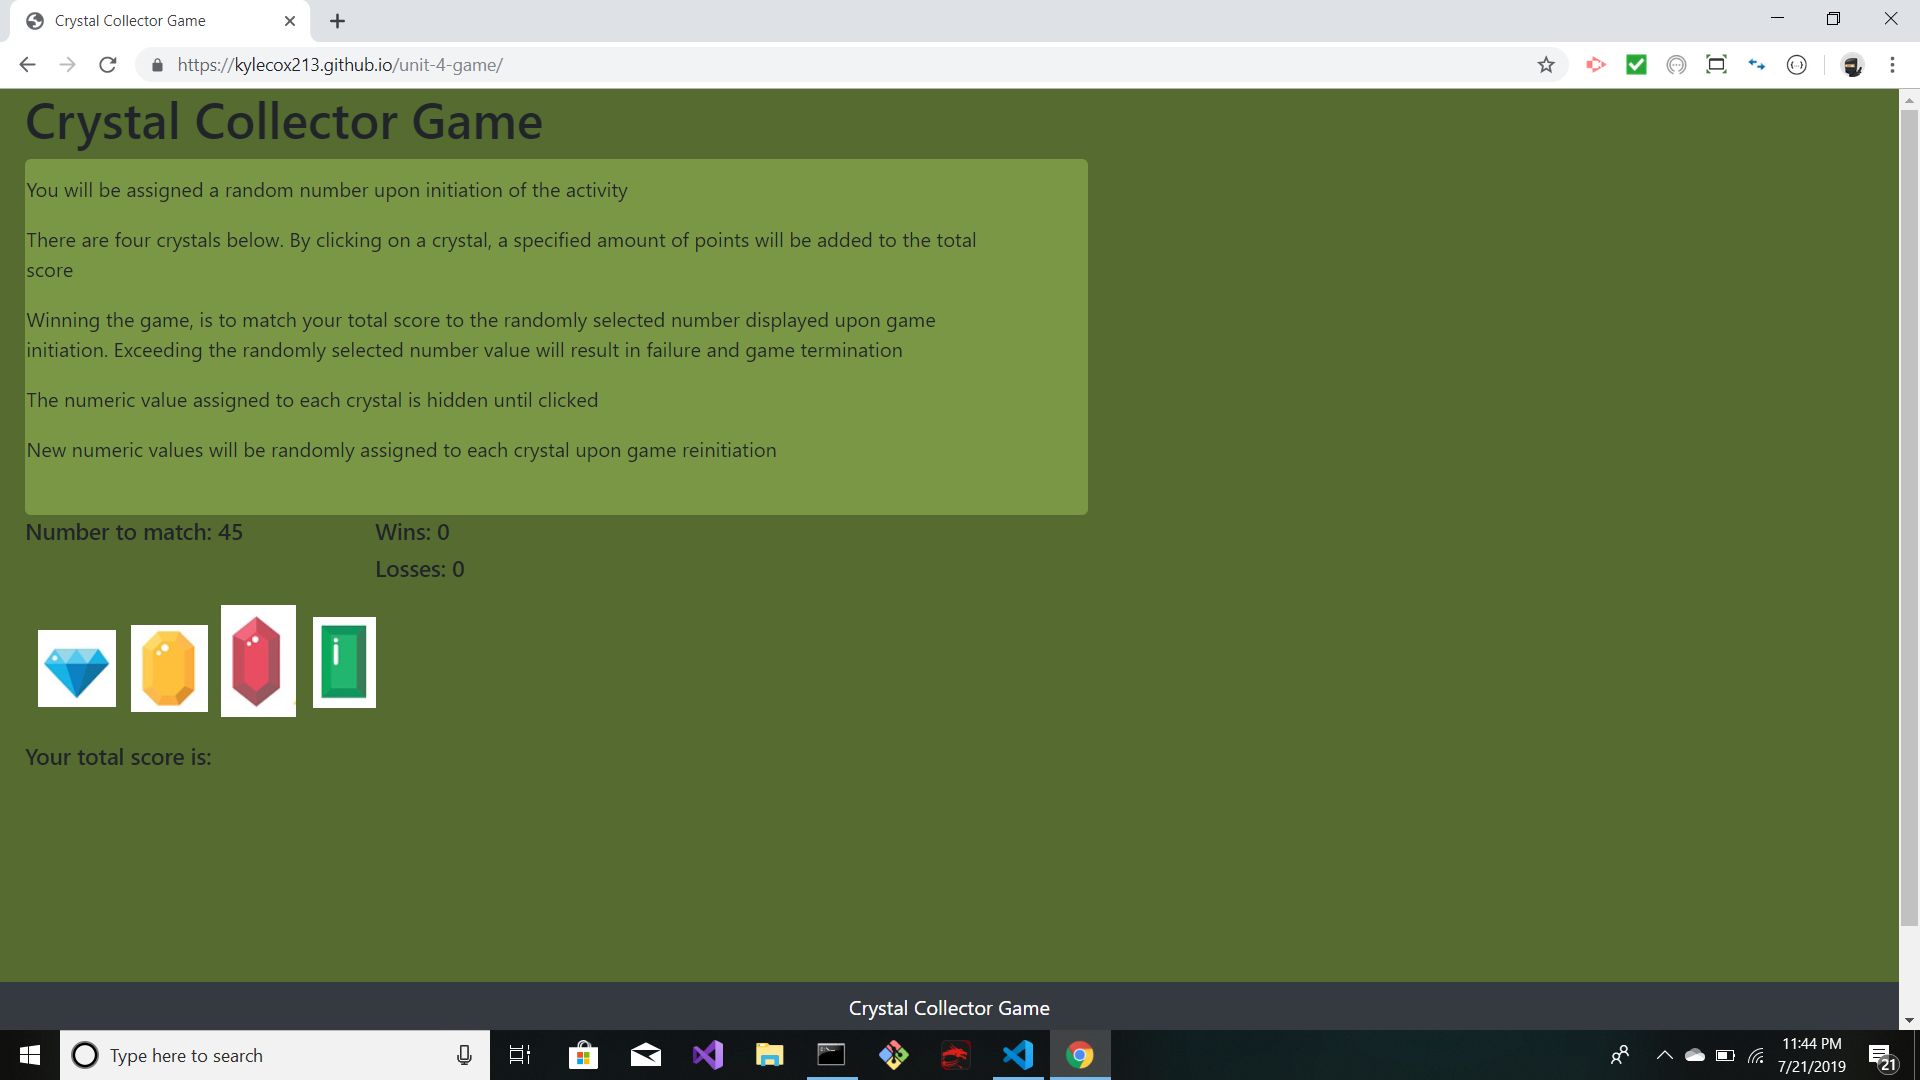
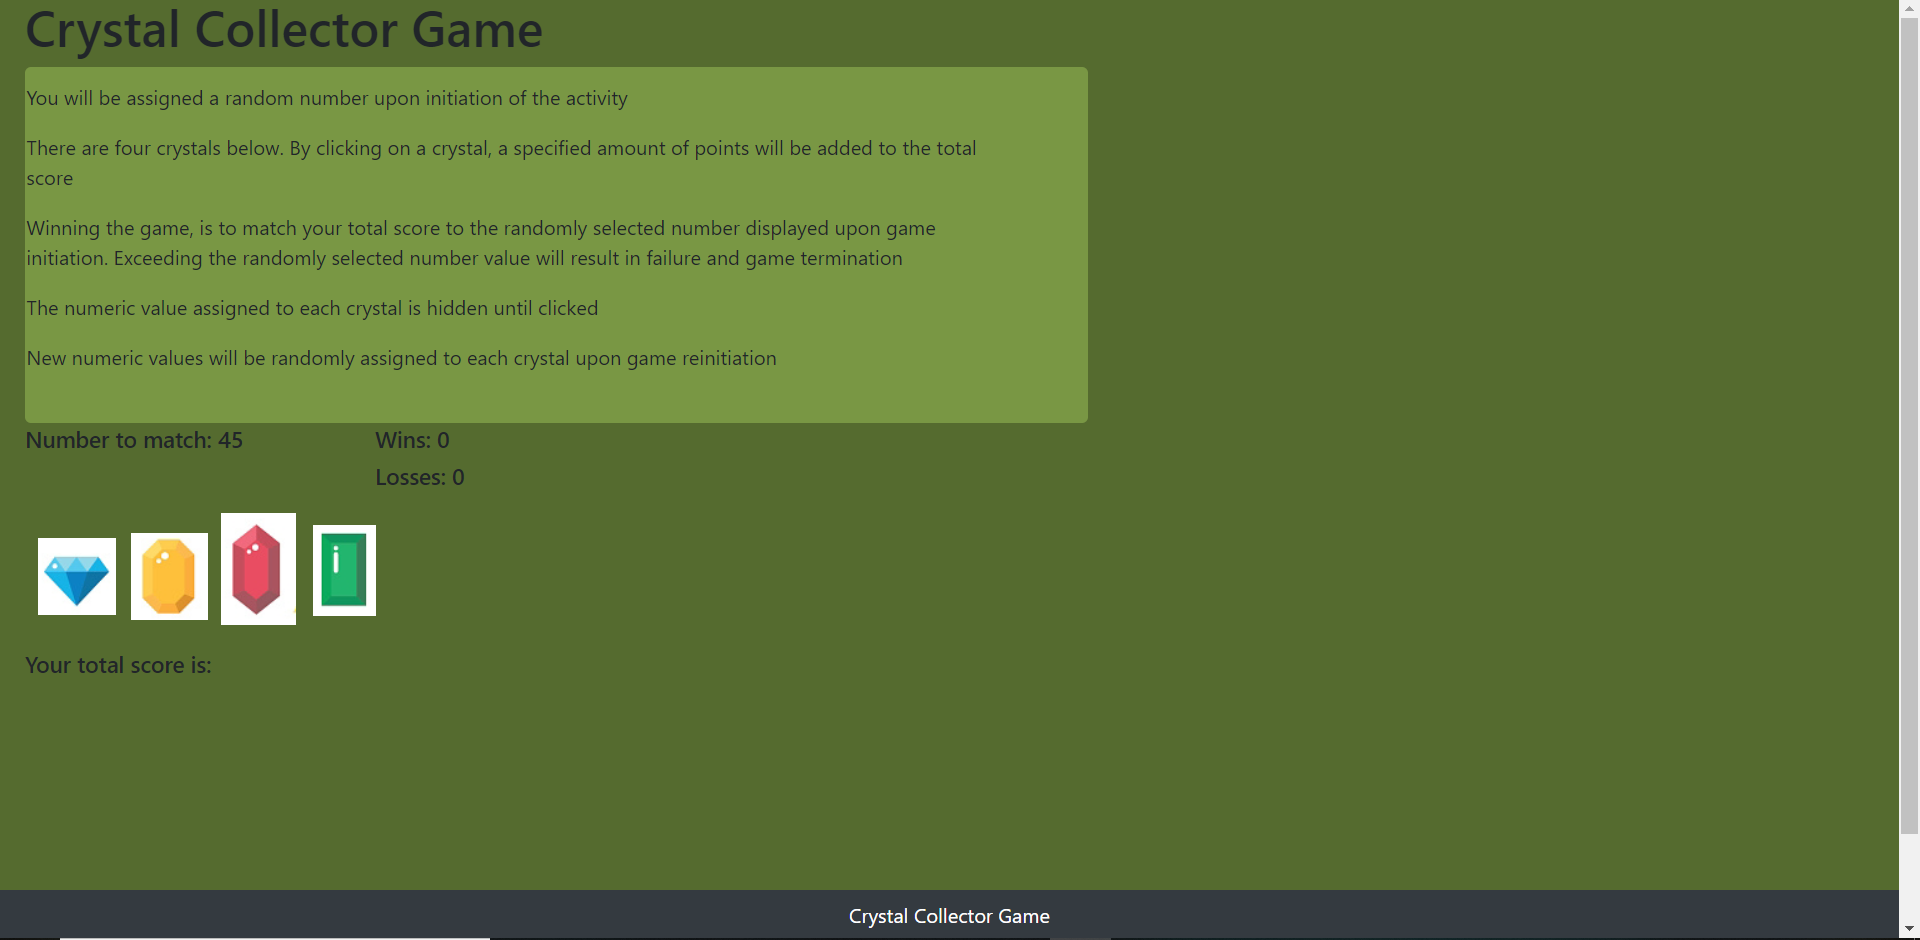
eliminated the tool bars from the project img screen shots for viewing purposes; switched the html to the php

diff --git a/assets/css/style.css b/assets/css/style.css
@@ -458,7 +458,7 @@ text-align: center;
 
 /*Start Contact*/
 .contact{
-    background: linear-gradient(to top, #1d1749, #302b46);
+    background: linear-gradient(to top, #17123a, #574e80);
 
 }
 

diff --git a/index.php b/index.php
@@ -1,9 +1,35 @@
+<?php
+if (isset($_GET['Name'])) {
+$name = trim($_GET["Name"]);
+$email = trim($_GET["Email"]);
+$subject = trim($_GET["Subject"]);
+$message = trim($_GET["Message"]);
+if ($name == "" || $email == "" || $message == ""){
+echo "Please fill in the required fields: Name, Email, Message";
+exit;
+}
+if ($_POST["address"] != ""){
+echo "Bad form input";
+exit;
+}
+$email_body = $email_body='
+Name: '.$name.'
+Email: '.$email.'
+Message: '.$message.'
+';
+echo $email_body;
+// send email
+$to = "creativewalkerz@gmail.com";
+mail($to, $subject, $email_body);
+header("location:submission.php");
+}
+?>
 <!doctype html>
 <html lang="en-us">
 
 <head>
     <meta charset="UTF-8">
-    <meta name="viewport" content="width=device-width, initial-scale=1.0">
+    <meta name="viewport" content="width=device-width, initial-scale = 1.0, maximum-scale=1.0, user-scalable=no" />
     <title>About | Kyle Cox</title>
     <link href="https://unpkg.com/aos@2.3.1/dist/aos.css" rel="stylesheet">
     <link rel=“stylesheet” href=“https://use.fontawesome.com/releases/v5.7.2/css/all.css”
@@ -327,7 +353,7 @@
                 <h1>Contact</h1>
                 <h6>Let's work together</h6>
             </div>
-            <form action="mailto:kylecox213@gmail.com" data-aos="fade-up" data-aos-delay="300">
+            <form action="index.php" data-aos="fade-up" data-aos-delay="300">
                 <label for="name">Name:</label>
                 <input type="text" id="name" name="name" placeholder="Enter your name..." required>
                 <label for="email">Email:</label>

diff --git a/submission.php b/submission.php
@@ -1,0 +1,1 @@
+<h1>Thanks you for your email submission.</h1>
